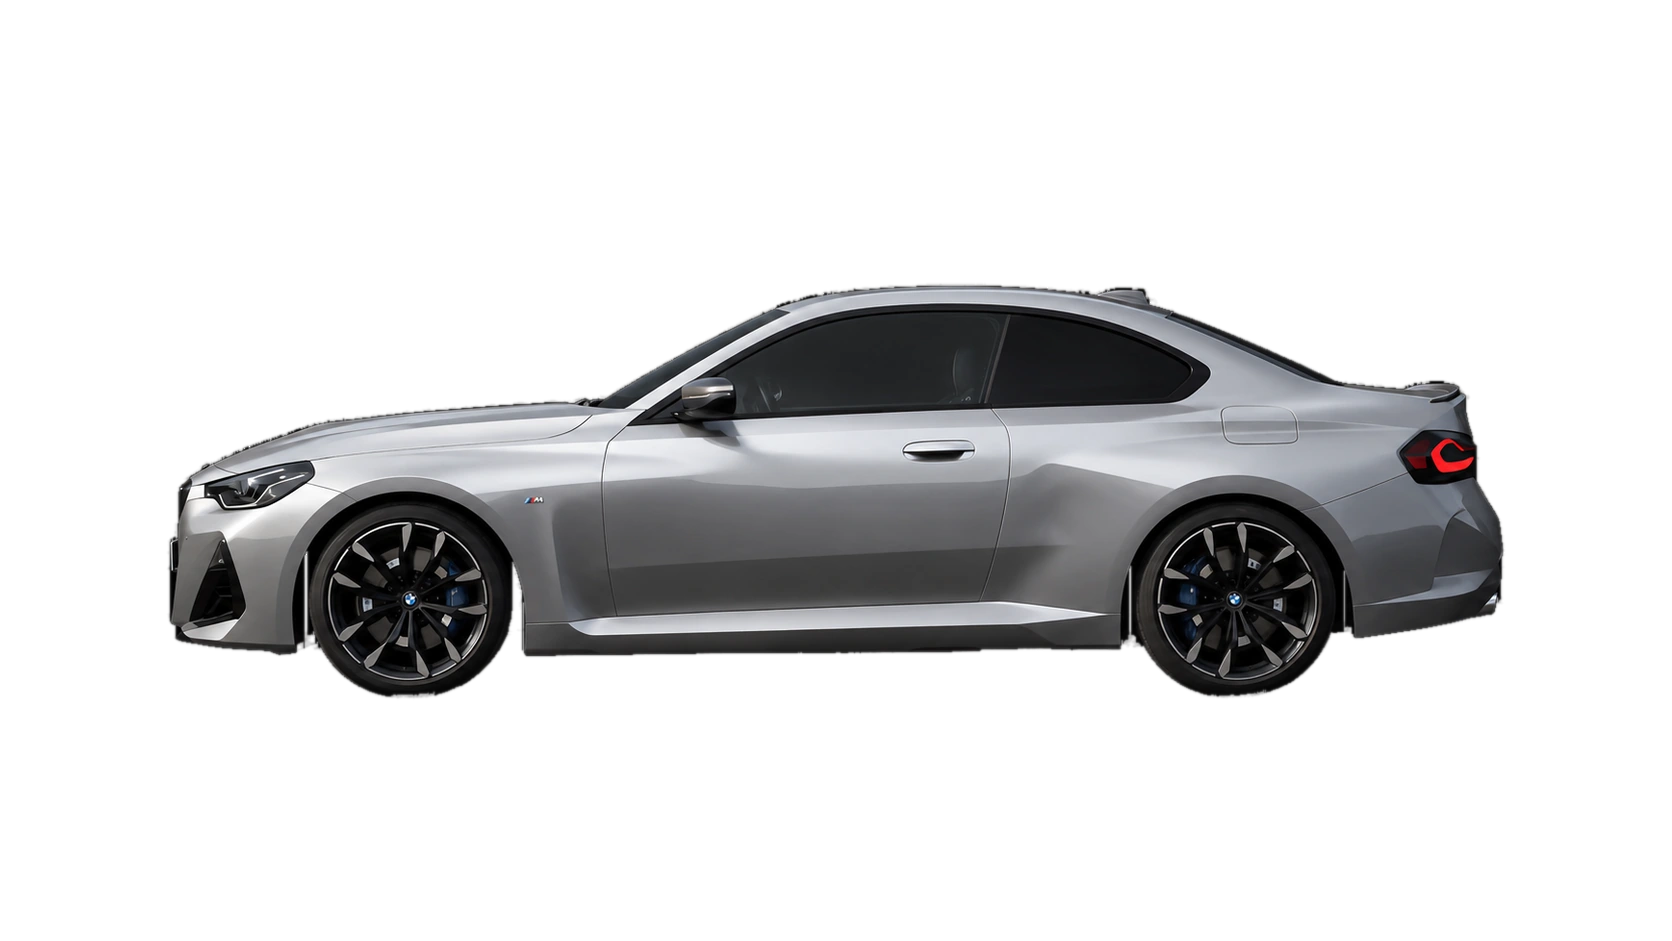
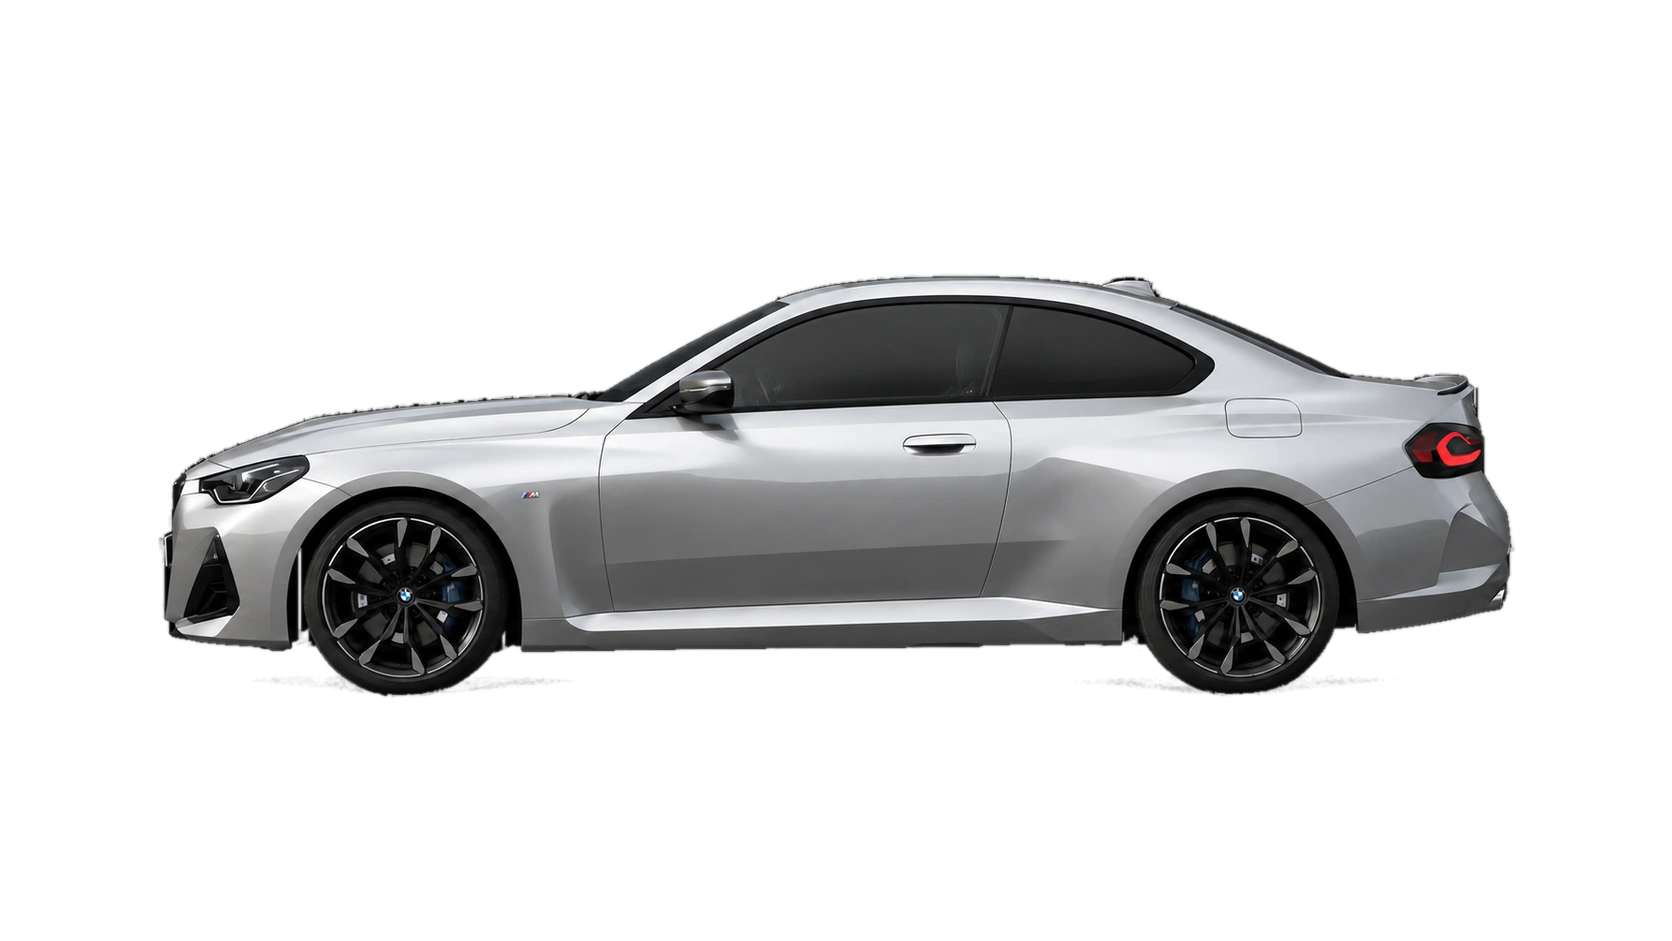
Nuevo set de fotos y script de calibración
Las cinco fotos se regeneraron con la misma distancia de cámara y
encuadre, que es lo único que no se puede corregir después. El resto
—escala, centrado, línea de piso y recorte— lo resuelve el script.

Las fuentes pasan a source/<slug>.png. Antes eran los nombres que
larga ChatGPT, con la fecha adentro, y no había forma de saber qué
archivo correspondía a qué auto sin abrirlos uno por uno.

tools/build-cars.py deja el proceso reproducible: mide el largo de
cada auto en píxeles, lo compara contra el largo real de fábrica y lo
escala para que todos compartan la misma relación px/mm. Los cinco
quedan con un desvío de ±0,3% y apoyando sobre la misma línea.

Changed region(s): [[0.0933, 0.2774, 0.9019, 0.7396], [0.622, 0.5239, 0.6531, 0.5547]]

diff --git a/tools/build-cars.py b/tools/build-cars.py
@@ -1,0 +1,154 @@
+#!/usr/bin/env python3
+"""
+Convierte las fotos crudas de source/ en los recortes que usa la web.
+
+    python3 tools/build-cars.py
+
+Qué hace, y por qué cada paso:
+
+1. RECORTA el auto. Las fotos vienen contra negro absoluto, así que todo
+   pixel que levanta por encima del negro es auto. Después RELLENA el
+   interior columna por columna — sin eso, un auto negro (el GLC) o los
+   vidrios polarizados quedan traslúcidos y se ve el fondo a través.
+
+2. CALIBRA la escala. El generador dibuja a ojo: cada auto sale de un
+   tamaño distinto sin relación con la realidad. Acá se mide el largo en
+   píxeles, se compara contra el largo real de fábrica (tabla REAL) y se
+   escala para que todos compartan la misma relación px/mm. Por eso un
+   SUV sigue viéndose más alto que un coupé: porque lo es.
+
+3. ALINEA. Todos los autos quedan apoyando sobre la misma línea de piso
+   (GROUND) y centrados en el mismo eje (CENTER). Eso es lo que hace que
+   al cambiar de auto se lea como un reemplazo y no como un salto.
+
+4. EXPORTA tres tamaños. El @2x existe para pantallas retina, que piden
+   el doble de píxeles de los que mide la ventana.
+
+Para sumar un auto: dejá la foto en source/<slug>.png y agregá su largo
+real de fábrica —en milímetros— a la tabla REAL.
+"""
+
+from PIL import Image, ImageFilter
+import numpy as np
+import os
+import sys
+
+BASE = os.path.dirname(os.path.dirname(os.path.abspath(__file__)))
+SRC = os.path.join(BASE, "source")
+OUT = os.path.join(BASE, "assets", "cars")
+
+# Largo real de fábrica, en mm. Es la referencia contra la que se calibra
+# el tamaño en pantalla — sin esto no hay forma de saber si un auto está
+# dibujado grande o si simplemente ES grande.
+REAL = {
+    "bmw-serie2": 4537,   # BMW Serie 2 Coupé (G42)
+    "camaro-ss":  4784,   # Chevrolet Camaro SS
+    "glc-coupe":  4763,   # Mercedes-Benz GLC Coupé
+    "golf-gti":   4287,   # Volkswagen Golf GTI (Mk8)
+    "audi-q5":    4689,   # Audi Q5 Sportback
+}
+
+CANVAS = (1672, 941)   # lienzo de salida, proporción de las fotos
+GROUND = 0.740         # dónde apoyan las ruedas
+CENTER = 0.500         # eje horizontal del auto
+
+# (ancho, sufijo, calidad). El @2x es para retina.
+SIZES = [(3344, "@2x", 88), (1672, "", 94), (1100, "@sm", 88)]
+
+
+def cutout(path):
+    """Devuelve (rgb, alpha) del auto recortado sobre su lienzo original."""
+    im = Image.open(path).convert("RGB")
+    rgb = np.asarray(im).astype(np.float32)
+
+    # el fondo es negro absoluto: lo que levanta por encima de ~2.5 es auto
+    alpha = np.clip((rgb.max(2) - 2.5) / 9.0, 0, 1)
+
+    # Relleno del interior. Un auto es macizo: entre el punto más alto y
+    # el más bajo de cada columna no puede haber transparencia. Sin esto
+    # se ve el fondo a través de un auto negro.
+    solid = alpha > 0.30
+    ys, xs = np.where(solid)
+    if xs.size == 0:
+        raise SystemExit(f"no se encontró ningún auto en {path}")
+    for x in range(xs.min(), xs.max() + 1):
+        col = np.where(solid[:, x])[0]
+        if col.size > 3:
+            alpha[col.min(): col.max() + 1, x] = 1.0
+
+    return rgb, alpha
+
+
+def bounds(alpha, thr=0.25):
+    cols = np.where(alpha.max(0) > thr)[0]
+    rows = np.where(alpha.max(1) > thr)[0]
+    return cols.min(), cols.max(), rows.min(), rows.max()
+
+
+def main():
+    slugs = sorted(REAL)
+    missing = [s for s in slugs if not os.path.exists(f"{SRC}/{s}.png")]
+    if missing:
+        raise SystemExit("faltan fotos en source/: " + ", ".join(missing))
+
+    os.makedirs(OUT, exist_ok=True)
+
+    # --- pasada 1: medir, para saber a qué escala llevar a todos ---
+    cars = {}
+    for s in slugs:
+        rgb, alpha = cutout(f"{SRC}/{s}.png")
+        x0, x1, _, _ = bounds(alpha)
+        # px por mm, normalizado al ancho del lienzo de salida
+        cars[s] = (rgb, alpha, (x1 - x0) / rgb.shape[1] * CANVAS[0] / REAL[s])
+
+    target = float(np.mean([c[2] for c in cars.values()]))
+    print(f"escala común: {target:.4f} px/mm\n")
+
+    # --- pasada 2: escalar, alinear y exportar ---
+    W, H = CANVAS
+    for s in slugs:
+        rgb, alpha, pxmm = cars[s]
+        factor = target / pxmm
+
+        rgba = Image.fromarray(
+            np.dstack([rgb, alpha * 255]).clip(0, 255).astype(np.uint8), "RGBA")
+        sw = round(W * factor)
+        scaled = rgba.resize((sw, round(rgba.height * sw / rgba.width)),
+                             Image.LANCZOS)
+
+        a = np.asarray(scaled)[..., 3].astype(np.float32) / 255
+        x0, x1, _, y1 = bounds(a, 0.235)
+        dx = round(CENTER * W - (x0 + x1) / 2)
+        dy = round(GROUND * H - y1)
+
+        canvas = Image.new("RGBA", (W, H), (0, 0, 0, 0))
+        canvas.paste(scaled, (dx, dy))
+
+        # un pelo de desenfoque en el alfa: mata el borde dentado sin
+        # comerse el contorno
+        arr = np.asarray(canvas).astype(np.float32)
+        soft = np.asarray(Image.fromarray(arr[..., 3].astype(np.uint8))
+                          .filter(ImageFilter.GaussianBlur(0.8))).astype(np.float32)
+        final = Image.fromarray(
+            np.dstack([arr[..., :3], soft]).clip(0, 255).astype(np.uint8), "RGBA")
+
+        line = f"{s:12} ×{factor:.3f}  "
+        for w, suffix, q in SIZES:
+            p = f"{OUT}/{s}{suffix}.webp"
+            final.resize((w, round(H * w / W)), Image.LANCZOS).save(
+                p, "WEBP", quality=q, method=6)
+            line += f"{w}:{os.path.getsize(p)//1024}KB "
+        print(line)
+
+    # --- comprobación: todos a escala real y sobre la misma línea ---
+    print()
+    for s in slugs:
+        a = np.asarray(Image.open(f"{OUT}/{s}.webp").convert("RGBA"))[..., 3]
+        x0, x1, y0, y1 = bounds(a.astype(np.float32) / 255)
+        dev = ((x1 - x0) / REAL[s] / target - 1) * 100
+        print(f"  {s:12} largo {x1-x0:4d}px  alto {y1-y0:4d}px  "
+              f"ruedas {y1/H*100:5.1f}%  desvío {dev:+.1f}%")
+
+
+if __name__ == "__main__":
+    sys.exit(main())
